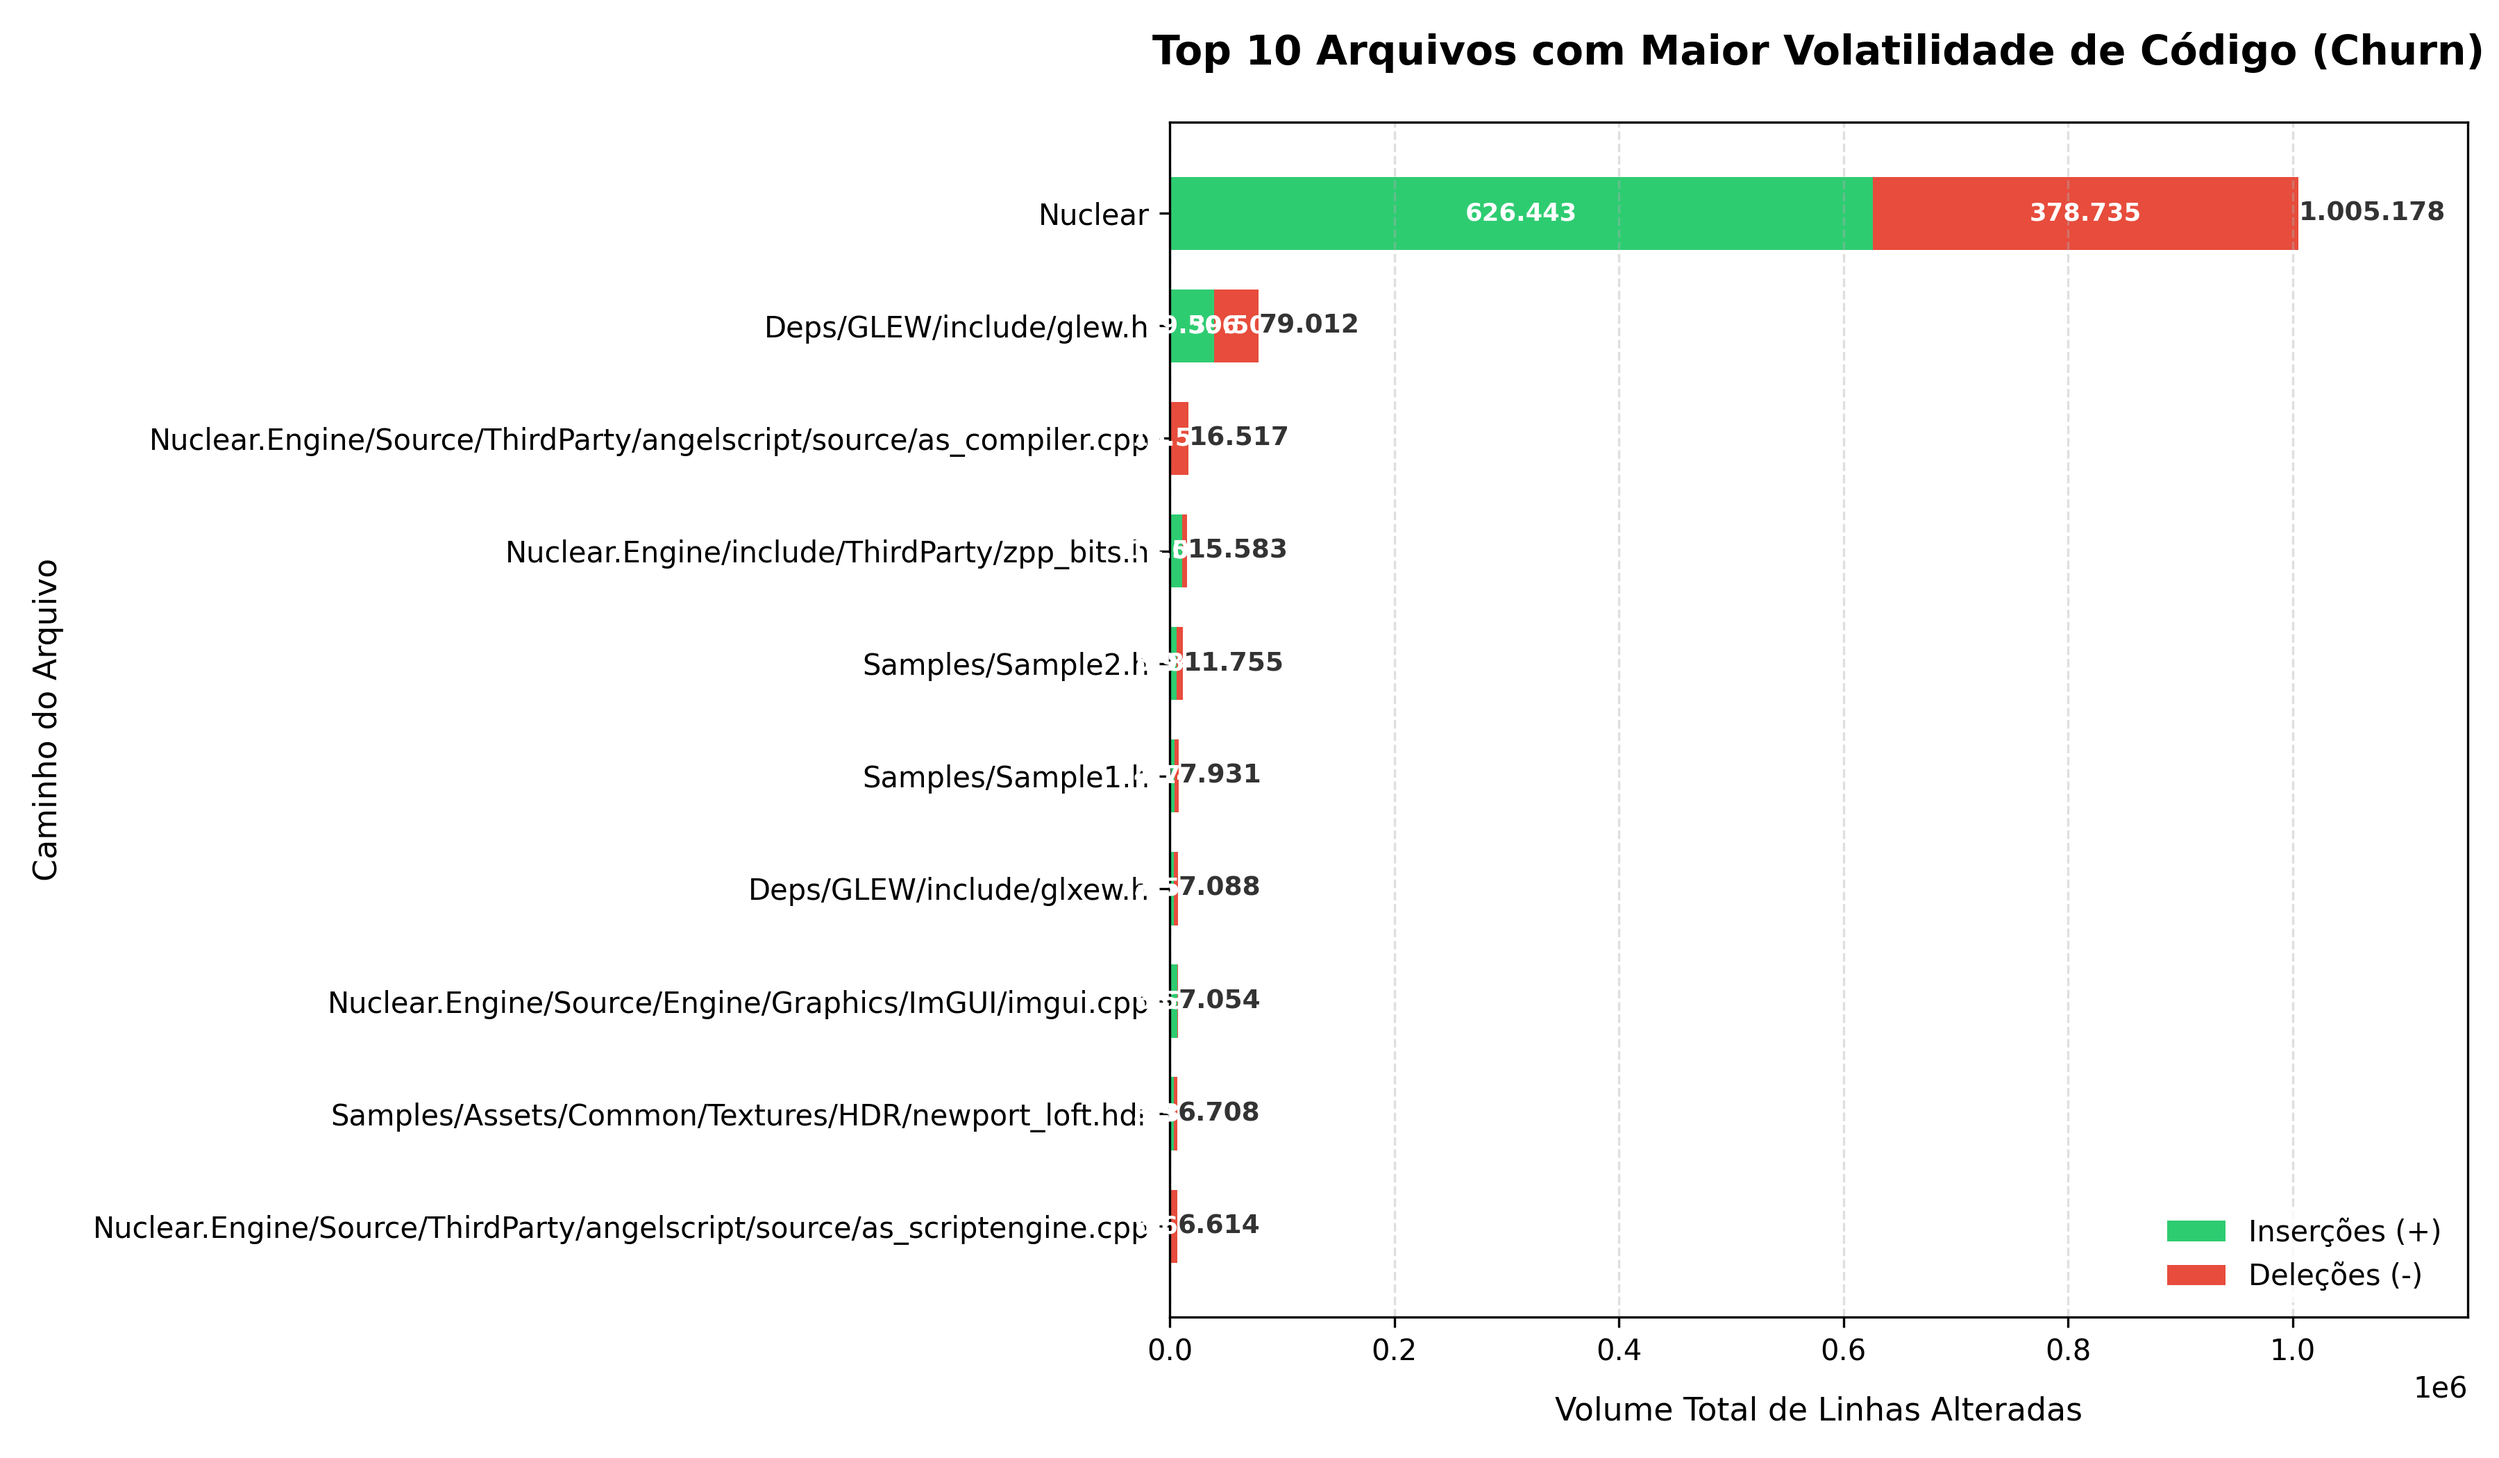
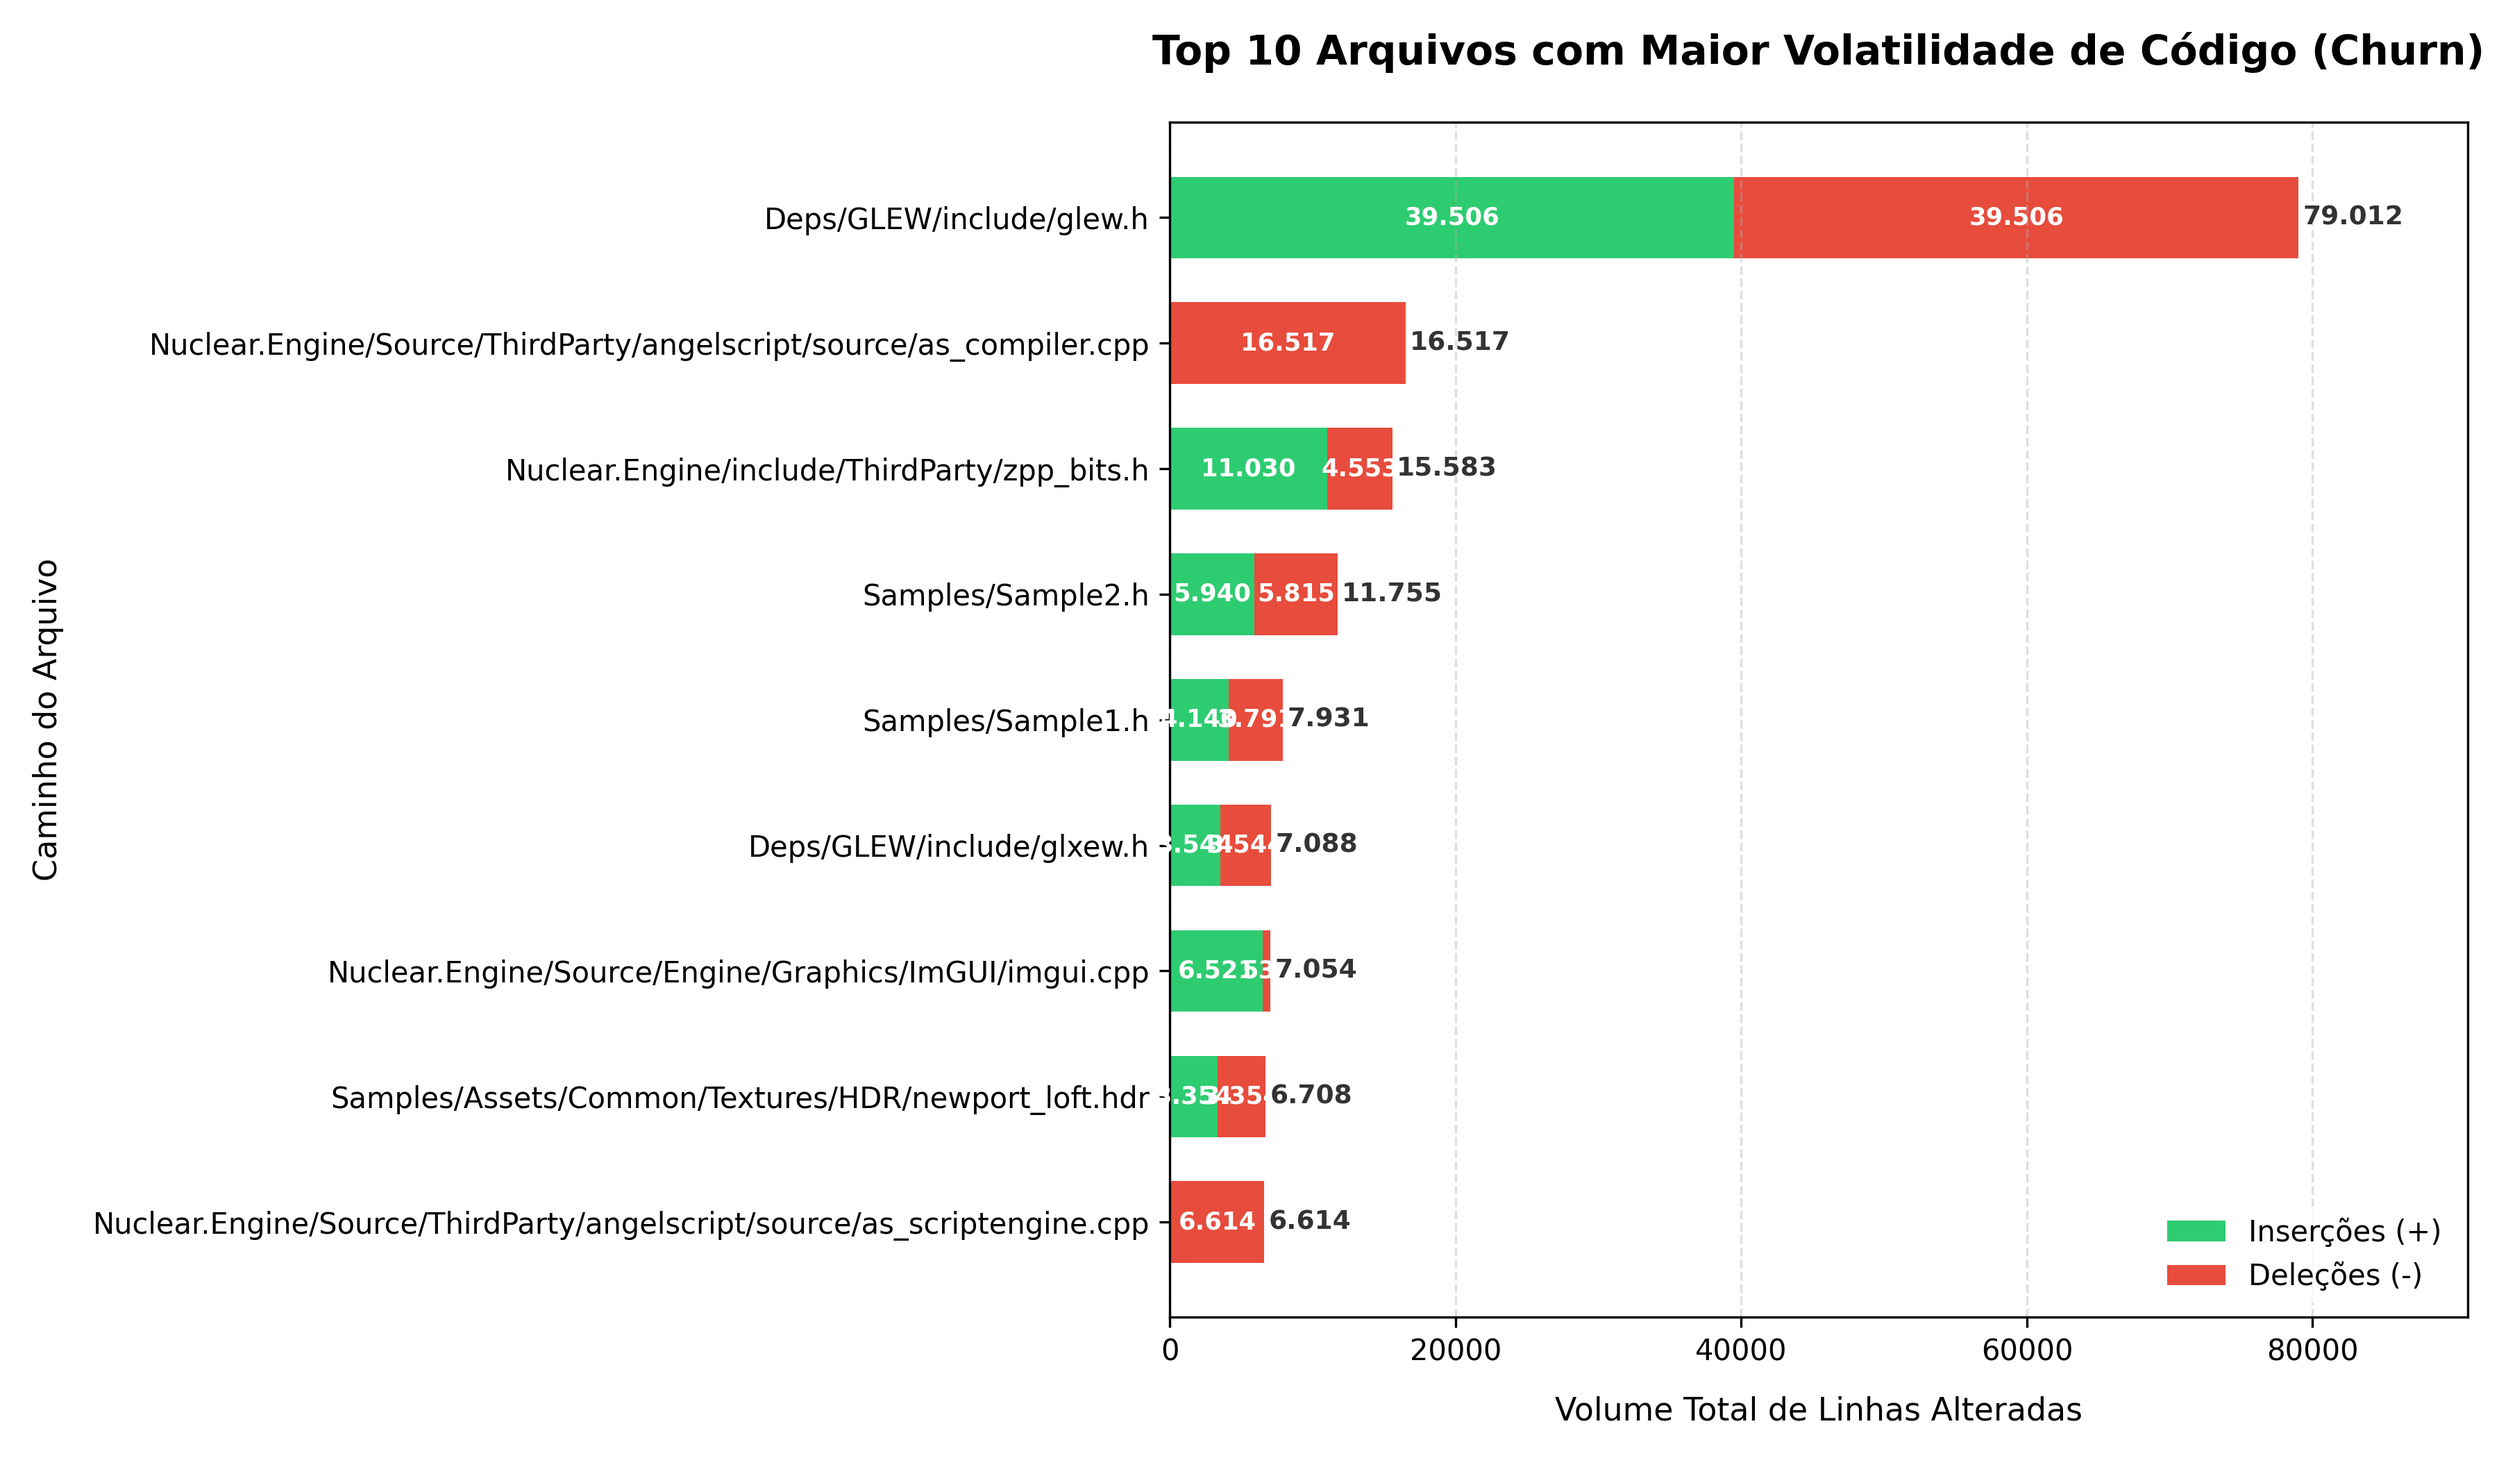
ultimo grafico

diff --git a/Nuclear_engine/churnGraph.py b/Nuclear_engine/churnGraph.py
@@ -2,8 +2,7 @@ import matplotlib.pyplot as plt
 import pandas as pd
 
 # Dados fornecidos
-dados_raw = """    
-Nuclear                                            626443       378735       1005178     
+dados_raw = """      
 Deps/GLEW/include/glew.h                           39506        39506        79012       
 Nuclear.Engine/Source/ThirdParty/angelscript/source/as_compiler.cpp 0            16517        16517       
 Nuclear.Engine/include/ThirdParty/zpp_bits.h       11030        4553         15583       
